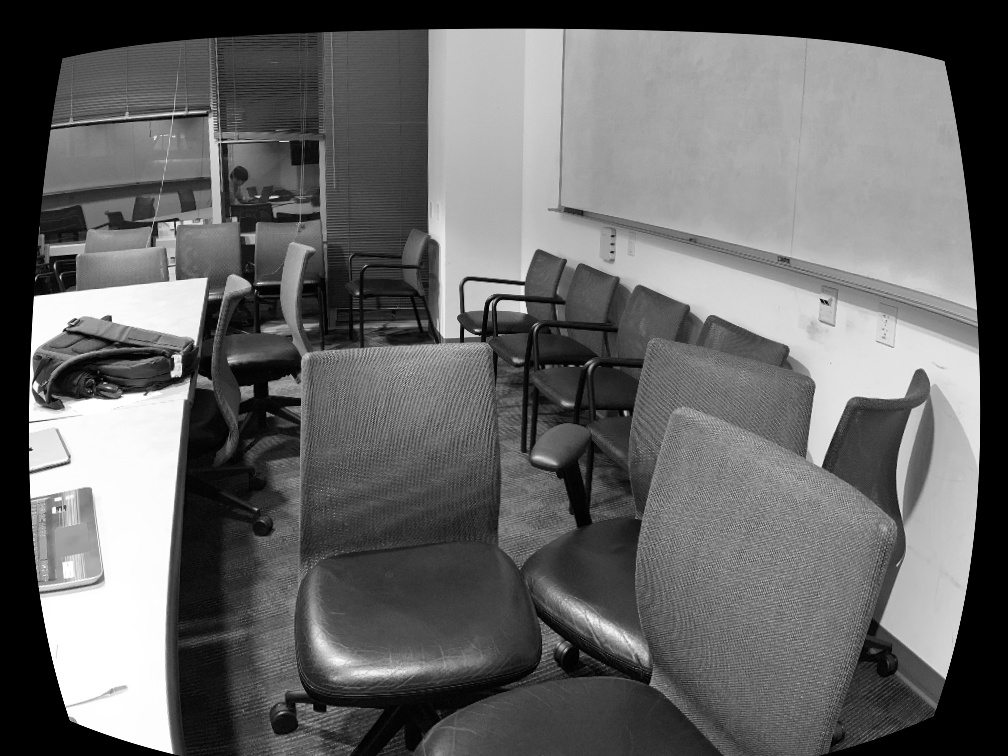
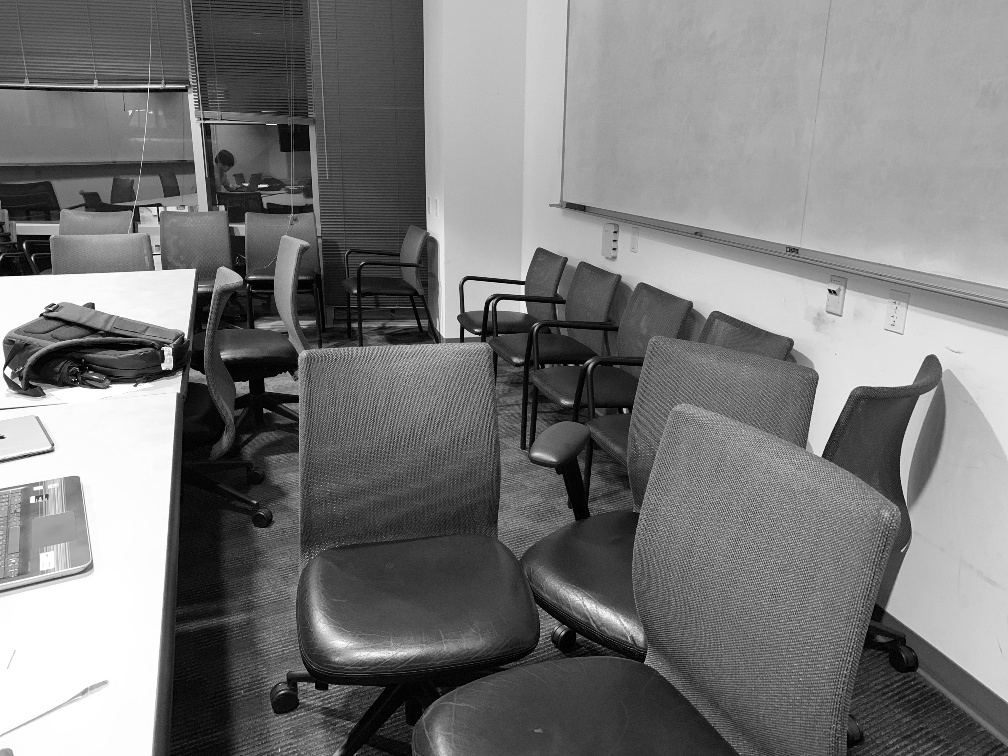
finished match and project, part 3

diff --git a/pose/estimation.py b/pose/estimation.py
@@ -128,6 +128,13 @@ def __triangulate_points__(intrinsic_matrix, pts1, pts2, R1, R2, t):
     projection_1 = np.matmul(intrinsic_matrix, np.hstack((np.identity(3), t)))
     projection_2 = np.matmul(intrinsic_matrix, np.hstack((R1, -1*t)))
 
+    print "----------------------------------------------------"
+    print "Rotation Matrix:"
+    print R1
+    print "----------------------------------------------------"
+    print "Translation Vector:"
+    print -1*t
+
     pts1 = np.transpose(pts1)
     pts2 = np.transpose(pts2)
 
@@ -143,7 +150,7 @@ def __triangulate_points__(intrinsic_matrix, pts1, pts2, R1, R2, t):
 
     return projection_1, points_4d
 
-def __project_points__(projection, points_4d):
+def __project_points__(projection, points_4d, pts1, display=ct.DONT_DISPLAY_PLOT):
     projected = np.matmul(projection, points_4d)
     i = 0
     for x in projected[2]:
@@ -157,9 +164,20 @@ def __project_points__(projection, points_4d):
 
 
     im = plt.imread(ct.POSE_WRITE_PATH+"undistorted1.jpg",cv.IMREAD_UNCHANGED)
-    rgb_img = cv.cvtColor(im, cv.COLOR_BGR2RGB)
-    implot = plt.imshow(rgb_img)
-    plt.scatter(x, y)
-    plt.show()
+    im = cv.resize(im, (ct.IMAGE_X, ct.IMAGE_Y))
+    implot = plt.imshow(im,cmap='gray')
+    plt.scatter(x, y, s=40, c='b', alpha=0.5)
+    # plt.show()
+    plt.scatter(pts1[:,0], pts1[:, 1], c="g", s=20, alpha="1")
+    if display:
+        plt.show()
+    plt.savefig(ct.POSE_WRITE_PATH+'projected_points.jpg')
 
-    print projected
+
+def match_and_project(intrinsic_matrix, distortion_coefficients, display=ct.DONT_DISPLAY_PLOT):
+    _pts1, _pts2, img1, img2 = __get_matching_points__(intrinsic_matrix, distortion_coefficients, display)
+    F, pts1, pts2 = __compute_fundamental_matrix__(_pts1, _pts2)
+    draw_epipolar_lines(F, img1, img2, pts1, pts2, display)
+    R1, R2, t = __get_rotation_and_translation__(pts1, pts2, intrinsic_matrix)
+    projetion, points_4d = __triangulate_points__(intrinsic_matrix, pts1, pts2, R1, R2, t)
+    __project_points__(projetion, points_4d, pts1, display)

diff --git a/stereo.py b/stereo.py
@@ -6,9 +6,4 @@ DISPLAY = ct.DONT_DISPLAY_PLOT
 
 intrinsic_matrix, distortion_coefficients, mean_error = it.calibrate(DISPLAY)
 
-_pts1, _pts2, img1, img2 = et.__get_matching_points__(intrinsic_matrix, distortion_coefficients, DISPLAY)
-F, pts1, pts2 = et.__compute_fundamental_matrix__(_pts1, _pts2)
-et.draw_epipolar_lines(F, img1, img2, pts1, pts2, DISPLAY)
-R1, R2, t = et.__get_rotation_and_translation__(pts1, pts2, intrinsic_matrix)
-projetion, points_4d = et.__triangulate_points__(intrinsic_matrix, pts1, pts2, R1, R2, t)
-et.__project_points__(projetion, points_4d)
+et.match_and_project(intrinsic_matrix, distortion_coefficients, DISPLAY)

diff --git a/parameters/intrinsic.py b/parameters/intrinsic.py
@@ -115,5 +115,5 @@ def undistort(image, intrinsic_matrix, distortion_parameters, name, display=ct.D
     undistorted_image = cv.undistort(image, intrinsic_matrix, distortion_parameters, None, None)
     if display:
         im.display("Undistorted Image", undistorted_image)
-    cv.imwrite(ct.POSE_WRITE_PATH + name, undistorted_image)
-    return undistorted_image
+    cv.imwrite(ct.POSE_WRITE_PATH + name, image)
+    return image
